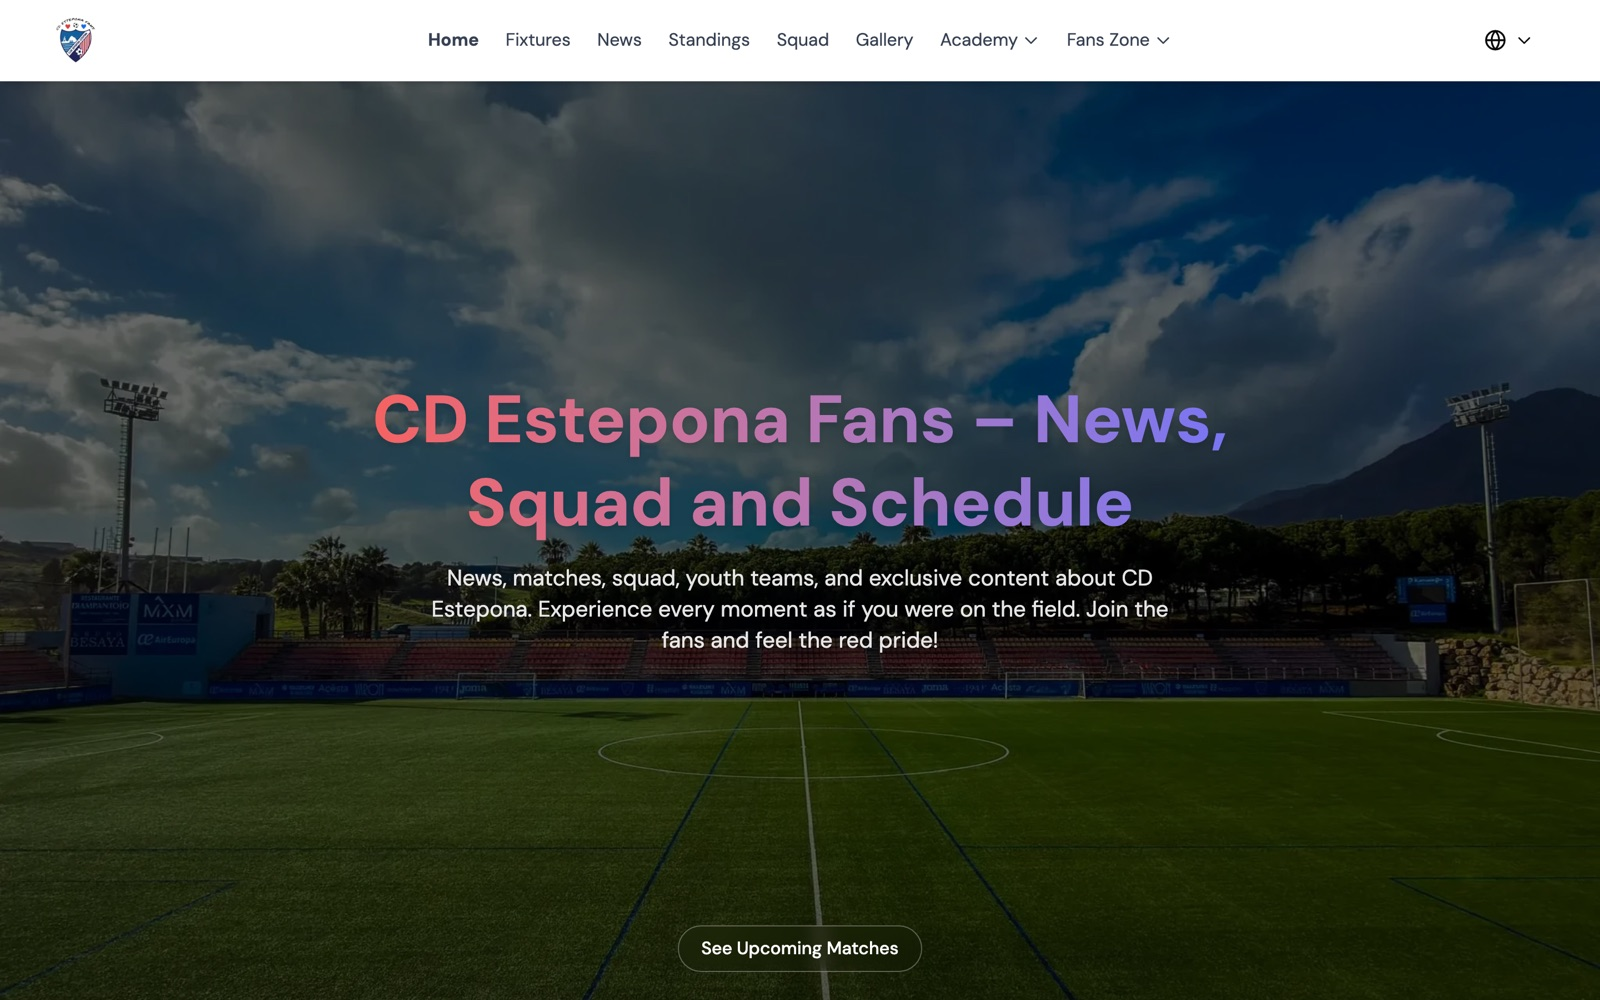
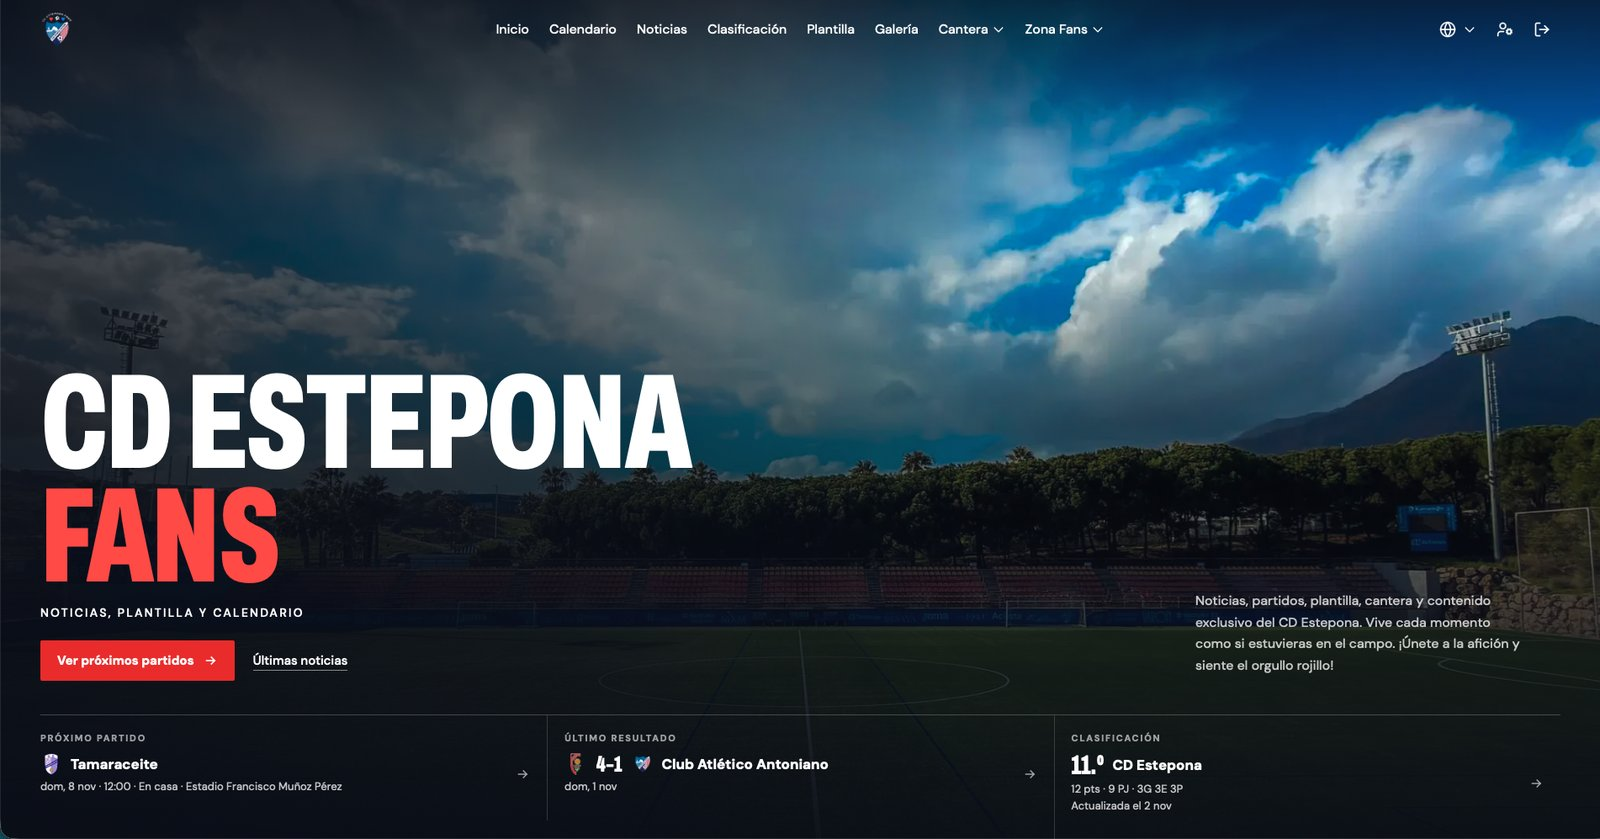
feat(cd-estepona): replace website capture with the new homepage hero
Production capture from 2 Nov 2026 (browser chrome cropped, 1600x839), image
dimensions updated to the new aspect ratio and capture date noted as November 2026.

Claude-Session: https://claude.ai/code/session_01NiHNKJRSUNQ98f3PHeJ4h6

diff --git a/src/components/partnerships/cdestepona/CdEsteponaExperience.tsx b/src/components/partnerships/cdestepona/CdEsteponaExperience.tsx
@@ -30,7 +30,7 @@ export default function CdEsteponaExperience() {
               src="/partnerships/cdestepona/website-home.jpg"
               alt={t("partnerships.cdestepona.experience.captions.website")}
               width={1600}
-              height={1000}
+              height={839}
               sizes="(min-width: 1152px) 1104px, 100vw"
               className="w-full h-auto"
             />
